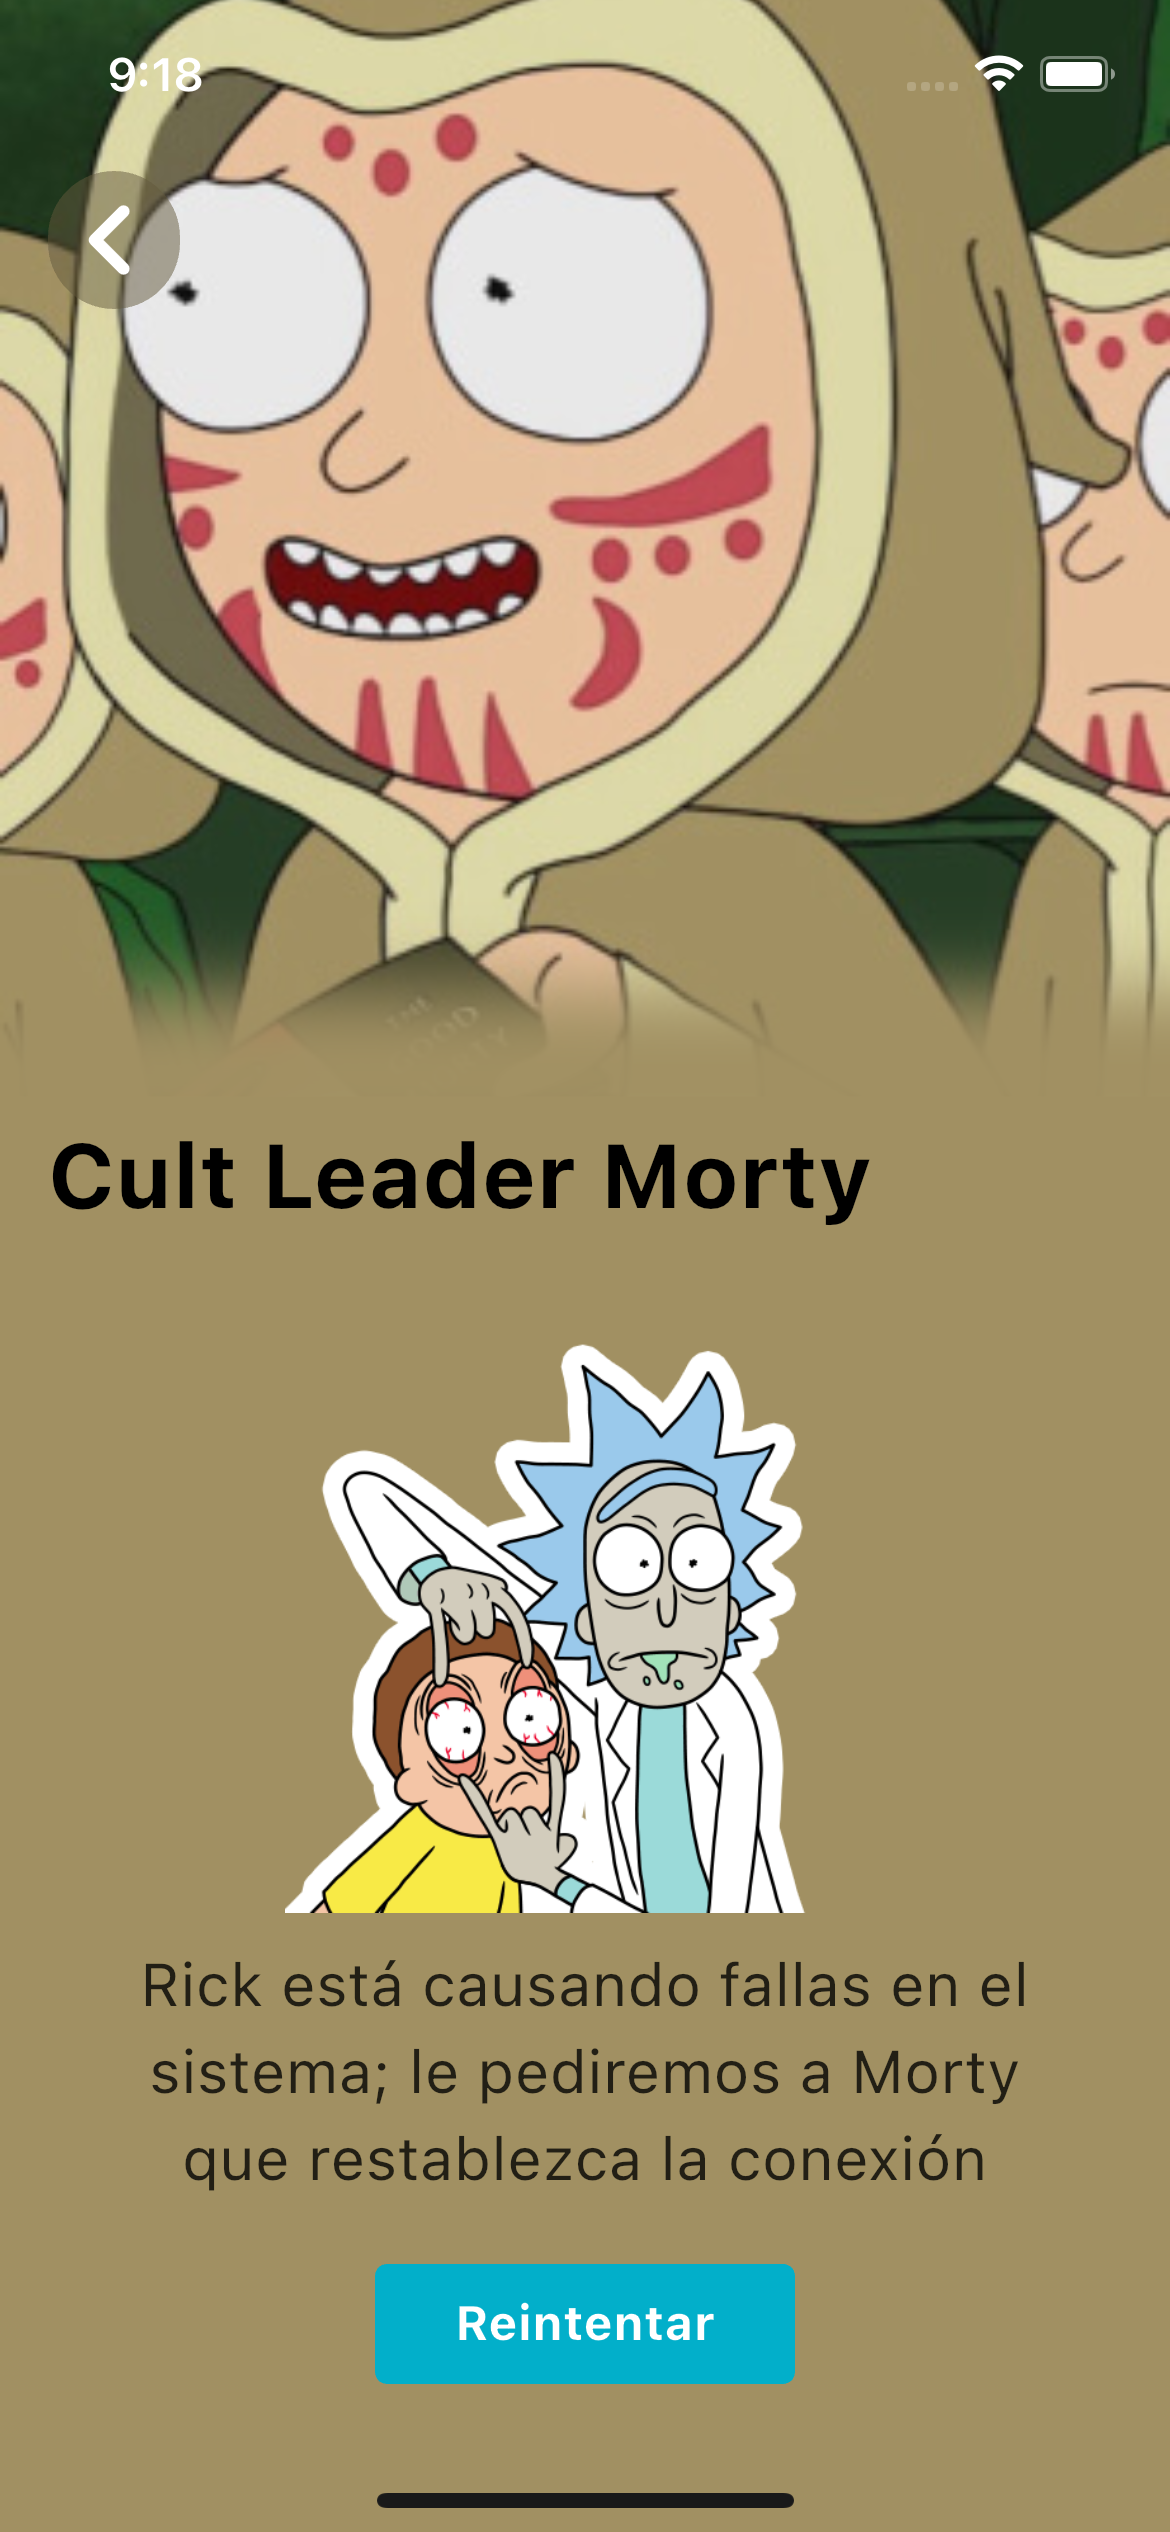
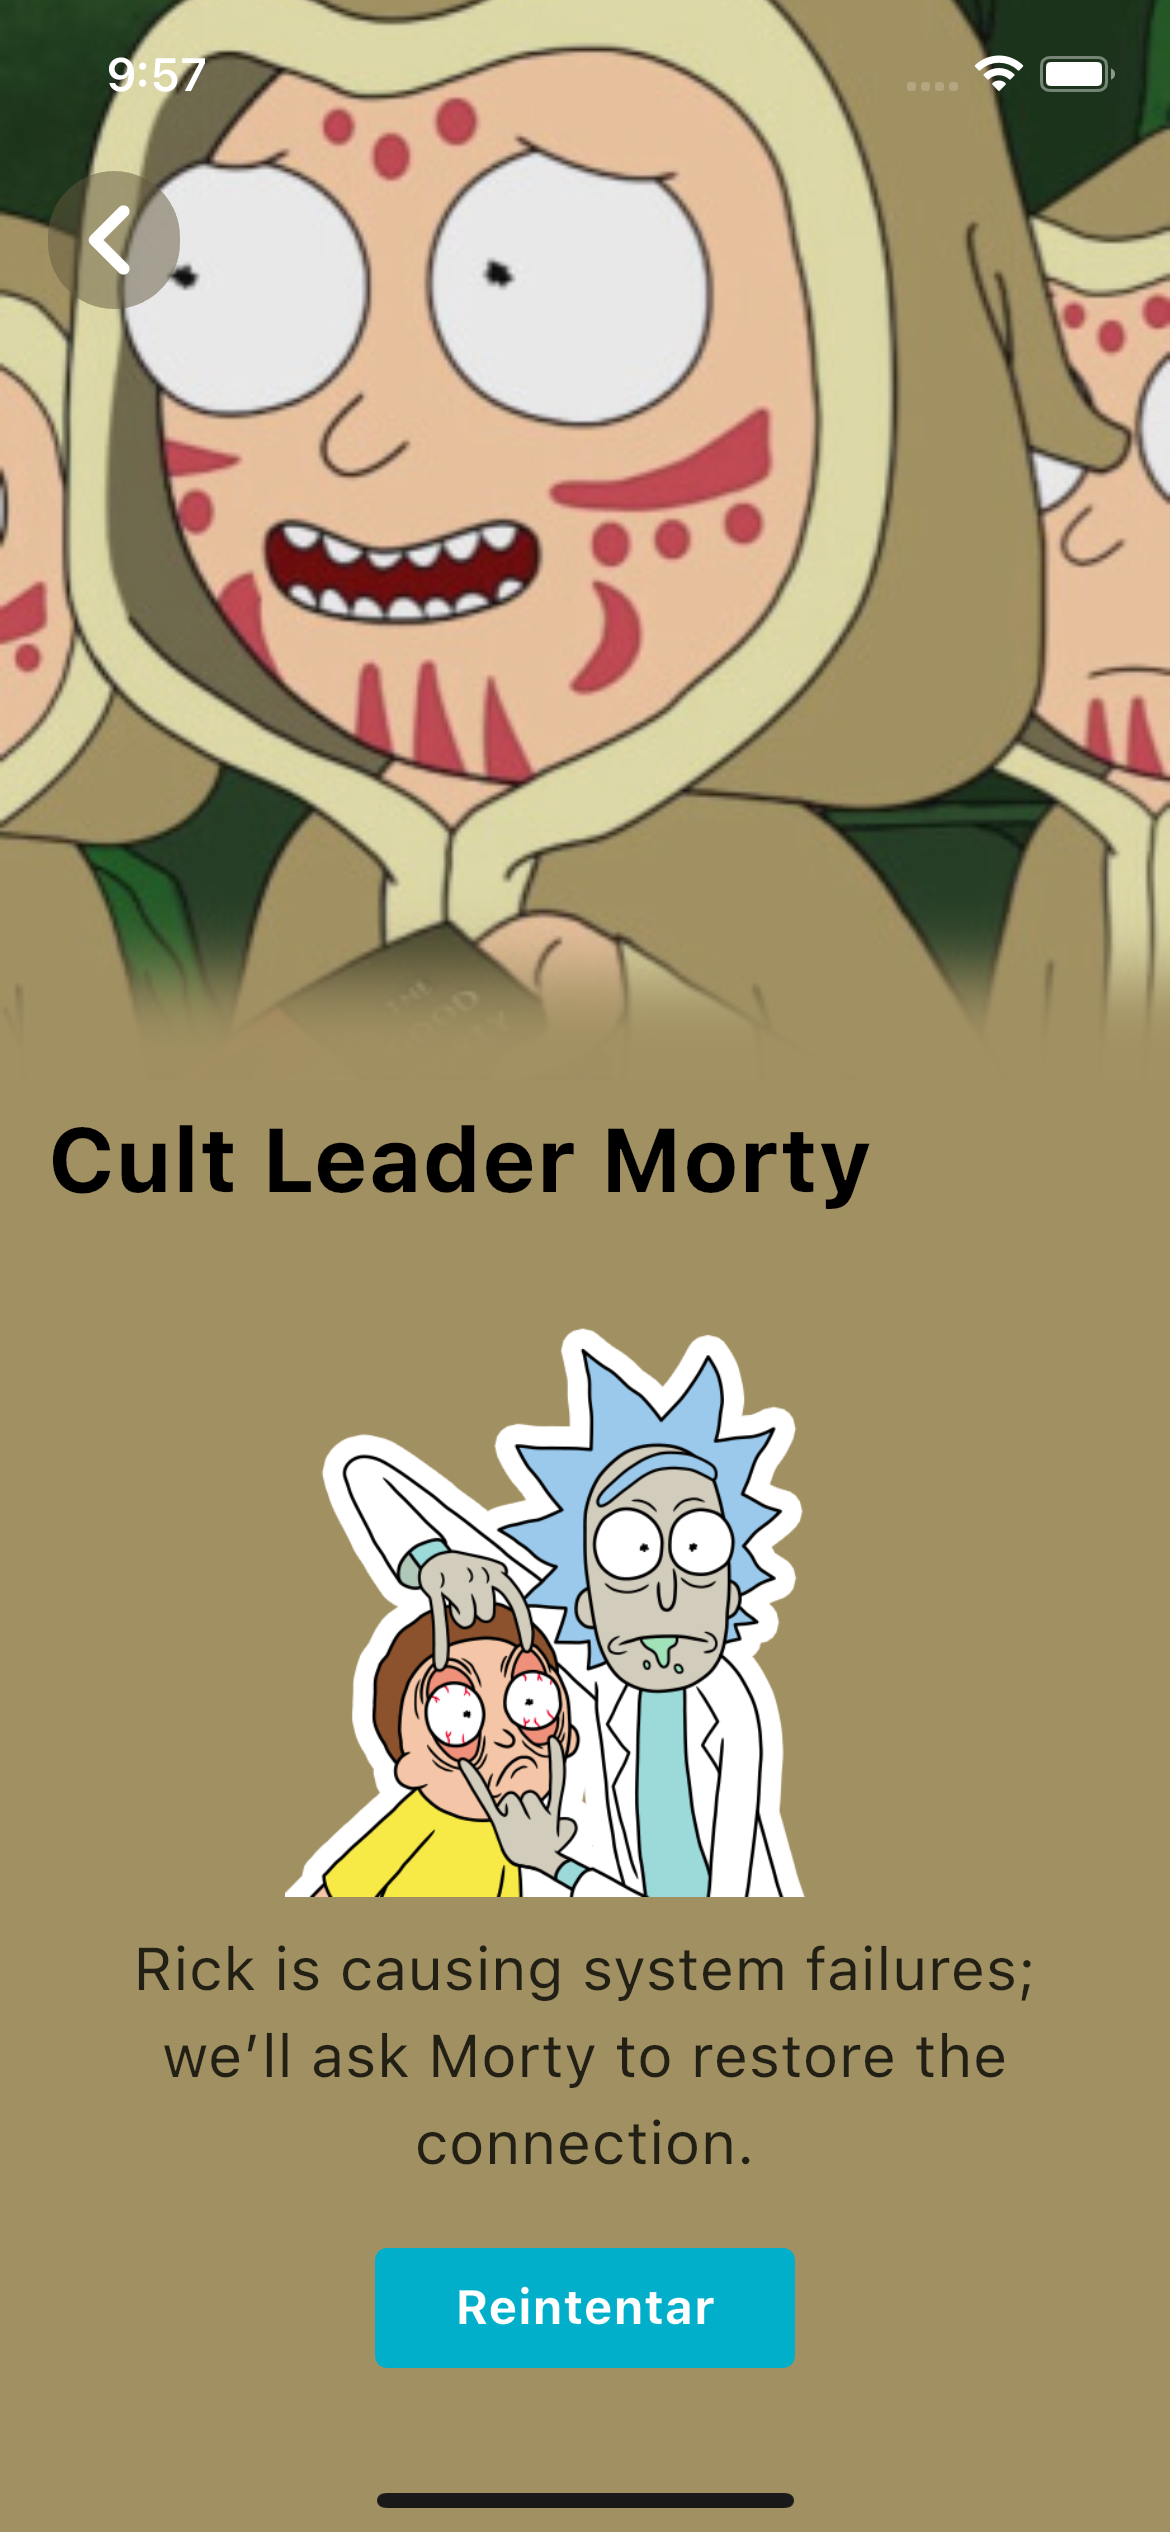
update readme

diff --git a/lib/features/character_detail/presentation/pages/character_detail_page.dart b/lib/features/character_detail/presentation/pages/character_detail_page.dart
@@ -81,8 +81,8 @@ class CharacterDetailPage extends ConsumerWidget {
                         error: (e, stack) {
                           final message =
                               e is SocketException || e is NetworkException
-                                  ? 'Rick está causando fallas en el sistema; le pediremos a Morty que restablezca la conexión'
-                                  : 'Rick desconectó algo del servidor... Morty intentará solucionarlo.';
+                                  ? 'Rick is causing system failures; we’ll ask Morty to restore the connection.'
+                                  : 'Rick unplugged something from the server... Morty will try to fix it.';
                           return ErrorInfo(
                             color: color,
                             message: message,

diff --git a/lib/features/characters/presentation/pages/characters_page.dart b/lib/features/characters/presentation/pages/characters_page.dart
@@ -101,8 +101,8 @@ class CharacterPageState extends ConsumerState<CharactersPage> {
                 error: (error, stackTrace) {
                   final message =
                       error is SocketException
-                          ? 'Rick está causando fallas en el sistema; le pediremos a Morty que restablezca la conexión'
-                          : 'Rick desconectó algo del servidor... Morty intentará solucionarlo.';
+                          ? 'Rick is causing system failures; we’ll ask Morty to restore the connection.'
+                          : 'Rick unplugged something from the server... Morty will try to fix it.';
                   return Column(
                     mainAxisAlignment: MainAxisAlignment.center,
                     children: [

diff --git a/README.md b/README.md
@@ -32,9 +32,13 @@ Aplicación desarrollada en Flutter que consume la API pública de Rick and Mort
 
 - **[Flutter](https://flutter.dev/)**: Framework de UI para desarrollar aplicaciones nativas multiplataforma.
 - **[Dart](https://dart.dev/)**: Lenguaje de programación utilizado por Flutter.
-- **[GraphQl](https://pub.dev/packages/graphql_flutter)**: Paquete de Flutter que permite hacer peticiones a la API de Rick And Morty
+- **[Riverpod](https://riverpod.dev/es/)**: Paquete de flutter utilizado para la gestión de estado.
+- **[Freezed](https://pub.dev/packages/freezed)**: Generador de código para las clases de datos.
+- **[GraphQL](https://pub.dev/packages/graphql_flutter)**: Paquete de Flutter que permite hacer peticiones a la API de Rick And Morty.
 
 ## 📁 Estructura del Proyecto
+
+El proyecto ha sido implementado siguiendo la arquitectura limpia y buenas practicas utilizando diferentes patrones de diseño como el patron Factory, Repository, Dependency Injection, entre otros, además de los principios SOLID.
 
 ```
 fakestore-ecommerce-app/
@@ -110,8 +114,6 @@ Sigue los siguientes pasos para clonar y ejecutar el proyecto en tu entorno loca
 ### Vista de error en la lista de personajes:
 
 <img src="screenshots/05-characters-error.png" alt="Products List" width="200"/>
-
-Permite crear una cuenta de usuario
 
 
 # 🧪 Pruebas Unitarias en `rick_and_morty_app`
